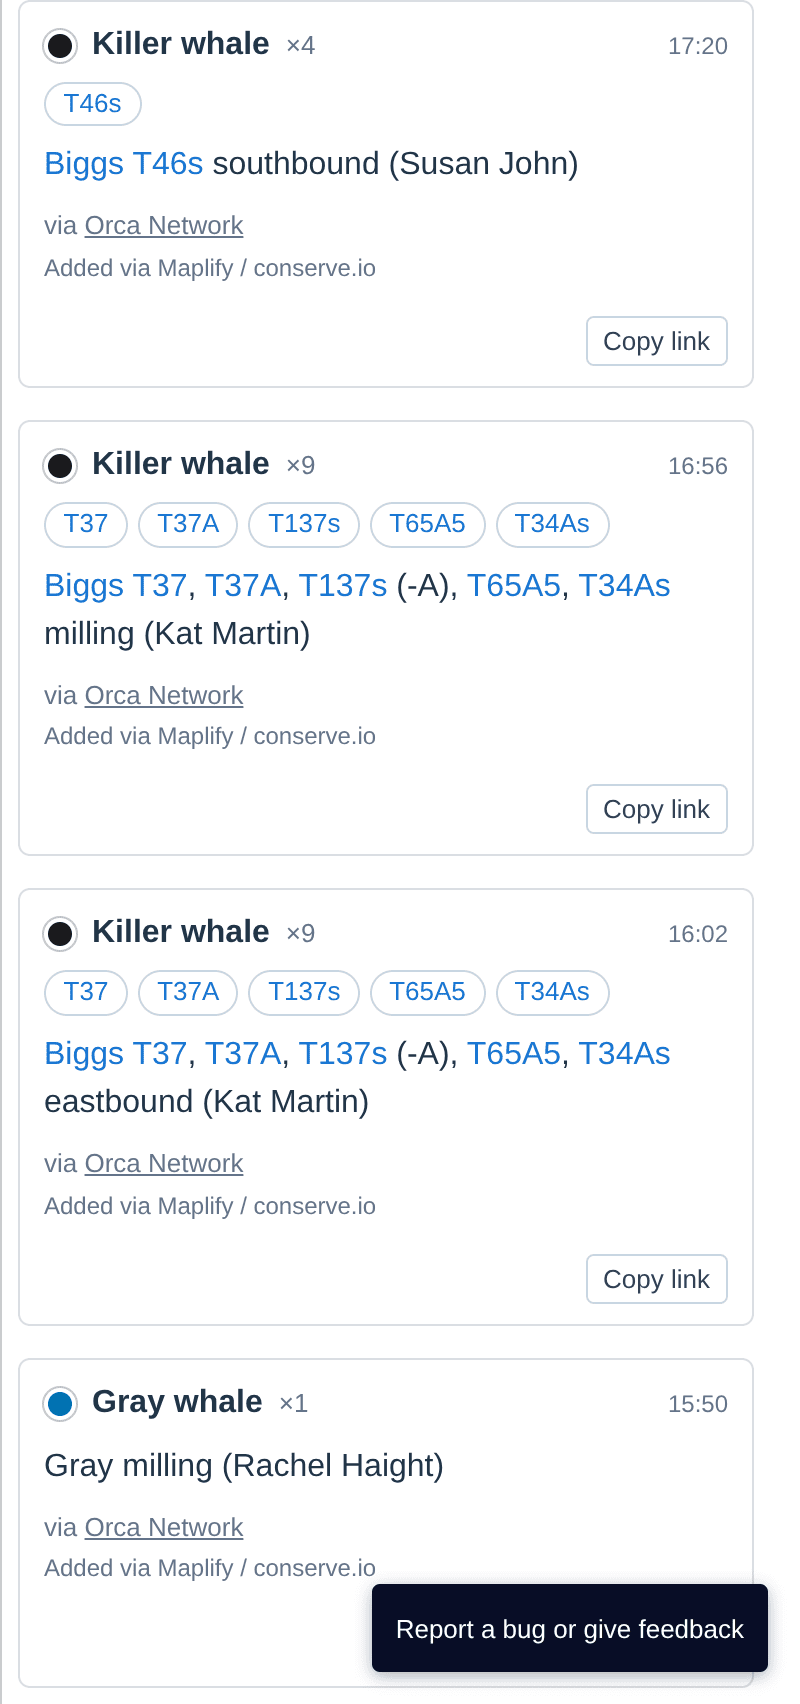
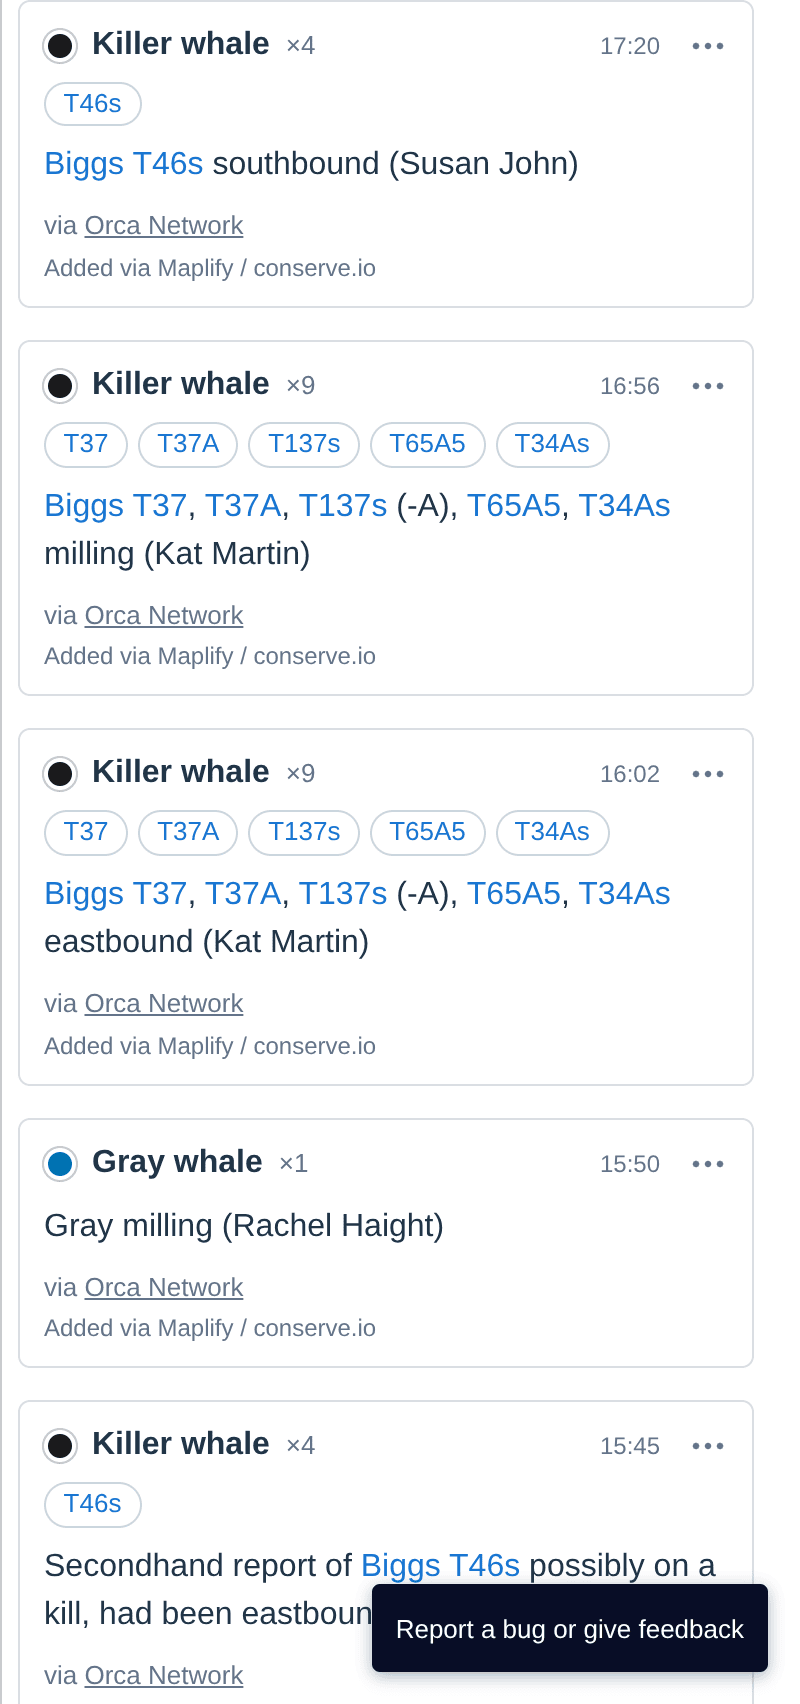
A card's actions move into a menu right of its time (salish-fwyt.1)
Copy link, Clone, Edit and Delete were a row of buttons at the foot of
every card. They are now behind a button beside the time, which opens a
menu of whichever of them the visitor may use. It closes on Escape (focus
returns to its button), on a click elsewhere, including on another card's
button, or once an action is chosen; Copy link says Copied! first. The
arrow keys, Home and End move between its items. A card listens to the
page only while its menu is open, since a day can hold a hundred cards.

Claude-Session: https://claude.ai/code/session_017BgNJENysuVYmDy4S5J7ru

diff --git a/src/obs-summary.ts b/src/obs-summary.ts
@@ -42,6 +42,7 @@ export class ObsSummary extends LitElement {
   protected ownObservation = false
 
   @state() private copied = false;
+  @state() private menuOpen = false;
 
   // Flips once the catalog code lookup arrives so guarded bodies re-render
   // with individual-profile links; until then codes show as plain text.
@@ -70,6 +71,7 @@ export class ObsSummary extends LitElement {
       display: flex;
       gap: 0.5rem;
       justify-content: space-between;
+      position: relative;
     }
     .species-info {
       align-items: baseline;
@@ -186,26 +188,76 @@ export class ObsSummary extends LitElement {
       margin: 1rem 0 0 0;
       padding: 0;
     }
-    ul.actions {
+    /* The card's actions, behind a button right of the time (salish-fwyt.1). The
+       button keeps its 44px touch target while sitting on the heading's baseline. */
+    .more {
+      align-self: center;
+      background: transparent;
+      border: 0;
+      border-radius: 4px;
+      color: #64748b;
+      cursor: pointer;
       display: flex;
-      flex-wrap: wrap;
-      gap: 0.5rem;
-      justify-content: flex-end;
-      list-style: none;
-      margin: 1rem 0 0 0;
+      flex: none;
+      margin: -12px -12px -12px -6px;
+      min-height: 44px;
+      min-width: 44px;
+      align-items: center;
+      justify-content: center;
       padding: 0;
     }
-    ul.actions a {
-      background: white;
-      border: 1px solid #cbd5e1;
-      border-radius: 4px;
-      color: #334155;
-      font-size: 0.8125rem;
-      padding: 0.25rem 0.5rem;
-    }
-    ul.actions a:hover {
-      background: #f1f5f9;
+    .more:hover, .more[aria-expanded="true"] {
       color: #1e293b;
+    }
+    .more:hover .dots, .more[aria-expanded="true"] .dots {
+      background: rgba(0, 0, 0, 0.06);
+    }
+    .more:focus-visible {
+      outline: 2px solid #1976d2;
+      outline-offset: -6px;
+    }
+    .dots {
+      border-radius: 4px;
+      display: block;
+      padding: 2px;
+    }
+    /* The account menu's surface (src/account-menu.ts), smaller. */
+    .menu {
+      background: white;
+      border: 1px solid #e2e8f0;
+      border-radius: 8px;
+      box-shadow: 0 4px 12px rgba(0, 0, 0, 0.18);
+      box-sizing: border-box;
+      min-width: 10rem;
+      padding: 6px 0;
+      position: absolute;
+      right: -6px;
+      top: calc(100% + 6px);
+      z-index: 1000;
+    }
+    .menu button {
+      background: transparent;
+      border: 0;
+      box-sizing: border-box;
+      color: #213547;
+      cursor: pointer;
+      display: block;
+      font: inherit;
+      font-size: 0.875rem;
+      min-height: 40px;
+      padding: 8px 16px;
+      text-align: left;
+      width: 100%;
+    }
+    .menu button:hover {
+      background: rgba(0, 0, 0, 0.05);
+    }
+    .menu button:focus-visible {
+      outline: 2px solid #1976d2;
+      outline-offset: -2px;
+    }
+    .menu button.danger {
+      color: #b91c1c;
     }
   `;
 
@@ -257,6 +309,13 @@ export class ObsSummary extends LitElement {
         <time>${guard([observed_at], () => html`${
           Temporal.Instant.from(observed_at).toZonedDateTimeISO('America/Los_Angeles').toPlainTime().toString({smallestUnit: 'minute', roundingMode: 'halfCeil'})
         }`)}</time>
+        <button class="more" type="button" aria-haspopup="menu" aria-expanded=${this.menuOpen ? 'true' : 'false'}
+          aria-label="Actions for this sighting" title="Actions" @click=${this.toggleMenu}>
+          <svg class="dots" xmlns="http://www.w3.org/2000/svg" viewBox="0 0 20 20" width="20" height="20" fill="currentColor" aria-hidden="true">
+            <circle cx="4" cy="10" r="1.6"></circle><circle cx="10" cy="10" r="1.6"></circle><circle cx="16" cy="10" r="1.6"></circle>
+          </svg>
+        </button>
+        ${this.menuOpen ? this.renderMenu(editable) : nothing}
       </header>
       ${guard([identifiers, this.catalogLoaded], () => {
         const animals = namedAnimals(identifiers, catalogCodes() ?? new Map(), matrilineCodes() ?? new Map());
@@ -285,17 +344,73 @@ export class ObsSummary extends LitElement {
         }</ul>`
       : undefined}
       ${this.renderProvenance()}
-      <ul class="actions">
-        <li><a href="#" @click=${this.onCopyLink}>${this.copied ? 'Copied!' : 'Copy link'}</a></li>
-        ${when(this.user, () => html`
-          <li><a href="#" @click=${this.onClone}>Clone</a></li>
-        `)}
-        ${when(editable, () => html`
-          <li><a href="#" @click=${this.onEdit}>Edit</a></li>
-          <li><a href="#" @click=${this.onDelete}>Delete</a></li>
-        `)}
-      </ul>
     `
+  }
+
+  /** The card's actions: copying its link for anyone, cloning for the signed in, and editing and deleting for whoever may. */
+  private renderMenu(editable: boolean) {
+    return html`
+      <div class="menu" role="menu" aria-label="Actions for this sighting" @keydown=${this.onMenuKeydown}>
+        <button type="button" role="menuitem" @click=${this.onCopyLink}>${this.copied ? 'Copied!' : 'Copy link'}</button>
+        ${when(this.user, () => html`<button type="button" role="menuitem" @click=${this.onClone}>Clone</button>`)}
+        ${when(editable, () => html`
+          <button type="button" role="menuitem" @click=${this.onEdit}>Edit</button>
+          <button type="button" role="menuitem" class="danger" @click=${this.onDelete}>Delete</button>
+        `)}
+      </div>
+    `;
+  }
+
+  // The page is listened to only while this card's menu is open: a day can hold
+  // a hundred cards, and each would otherwise hear every click.
+  // The click is left to reach the page, so another card's open menu hears it and
+  // closes; this card's own listener ignores clicks inside the card.
+  private toggleMenu = () => {
+    this.setMenuOpen(!this.menuOpen);
+  };
+
+  private setMenuOpen(open: boolean, returnFocus = false) {
+    if (open === this.menuOpen) return;
+    this.menuOpen = open;
+    if (open) {
+      document.addEventListener('click', this.onDocumentClick);
+      document.addEventListener('keydown', this.onDocumentKeydown);
+      this.updateComplete.then(() => this.menuItems()[0]?.focus());
+    } else {
+      document.removeEventListener('click', this.onDocumentClick);
+      document.removeEventListener('keydown', this.onDocumentKeydown);
+      if (returnFocus) this.shadowRoot?.querySelector<HTMLButtonElement>('.more')?.focus();
+    }
+  }
+
+  private menuItems(): HTMLButtonElement[] {
+    return [...this.shadowRoot?.querySelectorAll<HTMLButtonElement>('.menu [role="menuitem"]') ?? []];
+  }
+
+  private onDocumentClick = (event: MouseEvent) => {
+    if (!event.composedPath().includes(this)) this.setMenuOpen(false);
+  };
+
+  private onDocumentKeydown = (event: KeyboardEvent) => {
+    if (event.key === 'Escape') this.setMenuOpen(false, true);
+  };
+
+  // Up and down move between the items, wrapping; Home and End go to the ends; Tab leaves.
+  private onMenuKeydown = (event: KeyboardEvent) => {
+    const items = this.menuItems();
+    const at = items.indexOf(this.shadowRoot?.activeElement as HTMLButtonElement);
+    const to = {ArrowDown: at + 1, ArrowUp: at - 1, Home: 0, End: items.length - 1}[event.key];
+    if (to !== undefined) {
+      event.preventDefault();
+      items[(to + items.length) % items.length]?.focus();
+    } else if (event.key === 'Tab') {
+      this.setMenuOpen(false);
+    }
+  };
+
+  disconnectedCallback(): void {
+    super.disconnectedCallback();
+    this.setMenuOpen(false);
   }
 
   // Renders the provenance line(s) from the v1.3 provenance graph:
@@ -346,7 +461,7 @@ export class ObsSummary extends LitElement {
     const url = buildShareUrl(this.sighting.id);
     await navigator.clipboard.writeText(url);
     this.copied = true;
-    setTimeout(() => { this.copied = false; }, 2000);
+    setTimeout(() => { this.copied = false; this.setMenuOpen(false); }, 1200);
   }
 
   private focusSighting(interaction: Event) {
@@ -362,11 +477,13 @@ export class ObsSummary extends LitElement {
 
   private async onClone(e: Event) {
     e.preventDefault();
+    this.setMenuOpen(false);
     this.dispatchEvent(new CustomEvent('clone-sighting', {bubbles: true, composed: true, detail: this.sighting}));
   }
 
   private async onDelete(e: Event) {
     e.preventDefault();
+    this.setMenuOpen(false);
     try {
       await deleteSighting(this.sighting.id);
     } catch (error) {
@@ -380,6 +497,7 @@ export class ObsSummary extends LitElement {
 
   private async onEdit(e: Event) {
     e.preventDefault();
+    this.setMenuOpen(false);
     this.dispatchEvent(new CustomEvent('edit-observation', {bubbles: true, composed: true, detail: this.sighting}));
   }
 }

diff --git a/src/obs-summary.test.ts b/src/obs-summary.test.ts
@@ -198,3 +198,81 @@ describe('confirmationNote', () => {
     expect(confirmationNote({confirmation: 'unconfirmed', provider_slug: 'orcasound'})).toMatch(/possibly heard/);
   });
 });
+
+describe("a card's actions menu", () => {
+  const mounted = async () => {
+    const el = document.createElement('obs-summary') as ObsSummary;
+    (el as unknown as {sighting: Partial<Occurrence>}).sighting = {
+      id: 'inaturalist:1', body: null, confirmation: 'confirmed', disagreements: null, vitality: null, count: null,
+      observed_at: '2026-09-15T18:00:00+00:00', photos: [], provider_slug: 'inaturalist', provider: 'iNaturalist',
+      collection: 'iNaturalist', observer: 'someone', source_url: null, organization_url: null, url: null, attribution: null,
+      identifiers: null,
+      taxon: {scientific_name: 'Megaptera novaeangliae', vernacular_name: 'Humpback whale', species_id: 41566, entity_id: null},
+    };
+    document.body.append(el);
+    await el.updateComplete;
+    const root = el.shadowRoot!;
+    const button = root.querySelector<HTMLButtonElement>('button.more')!;
+    const items = () => [...root.querySelectorAll<HTMLButtonElement>('.menu [role="menuitem"]')];
+    const settle = async () => { await el.updateComplete; await el.updateComplete; };
+    return {el, root, button, items, settle};
+  };
+  afterEach(() => { document.body.replaceChildren(); });
+
+  it('is closed until its button is pressed, and then offers what anyone may do', async () => {
+    const {button, items, settle} = await mounted();
+    expect(items()).toEqual([]);
+    expect(button.getAttribute('aria-expanded')).toBe('false');
+    button.click();
+    await settle();
+    expect(button.getAttribute('aria-expanded')).toBe('true');
+    // Signed out, and not one's own sighting: only the link to it.
+    expect(items().map(i => i.textContent)).toEqual(['Copy link']);
+  });
+
+  it('closes on Escape and gives focus back to its button', async () => {
+    const {root, button, items, settle} = await mounted();
+    button.click();
+    await settle();
+    expect(root.activeElement).toBe(items()[0]);
+    document.dispatchEvent(new KeyboardEvent('keydown', {key: 'Escape'}));
+    await settle();
+    expect(items()).toEqual([]);
+    expect(root.activeElement).toBe(button);
+  });
+
+  it('closes on a click elsewhere on the page, but not on a click inside it', async () => {
+    const {root, button, items, settle} = await mounted();
+    button.click();
+    await settle();
+    root.querySelector<HTMLElement>('.menu')!.click();
+    await settle();
+    expect(items().length).toBe(1);
+    document.body.click();
+    await settle();
+    expect(items()).toEqual([]);
+  });
+
+  it("closes when another card's menu opens", async () => {
+    const first = await mounted();
+    const second = await mounted();
+    first.button.click();
+    await first.settle();
+    second.button.click();
+    await first.settle();
+    await second.settle();
+    expect(first.items()).toEqual([]);
+    expect(second.items().length).toBe(1);
+  });
+
+  it('stops listening to the page once closed', async () => {
+    const {button, settle} = await mounted();
+    const removed = vi.spyOn(document, 'removeEventListener');
+    button.click();
+    await settle();
+    button.click();
+    await settle();
+    expect(removed.mock.calls.map(([type]) => type).sort()).toEqual(['click', 'keydown']);
+    removed.mockRestore();
+  });
+});

diff --git a/src/obs-panel.ts b/src/obs-panel.ts
@@ -166,7 +166,7 @@ export class ObsPanel extends LitElement {
       color: #64748b;
       font-size: 0.8125rem;
     }
-    /* obs-summary's action buttons, rounded off — same tokens, bubble shape. */
+    /* Small rounded buttons, as the region choices are. */
     .bubble {
       background: white;
       border: 1px solid #cbd5e1;
